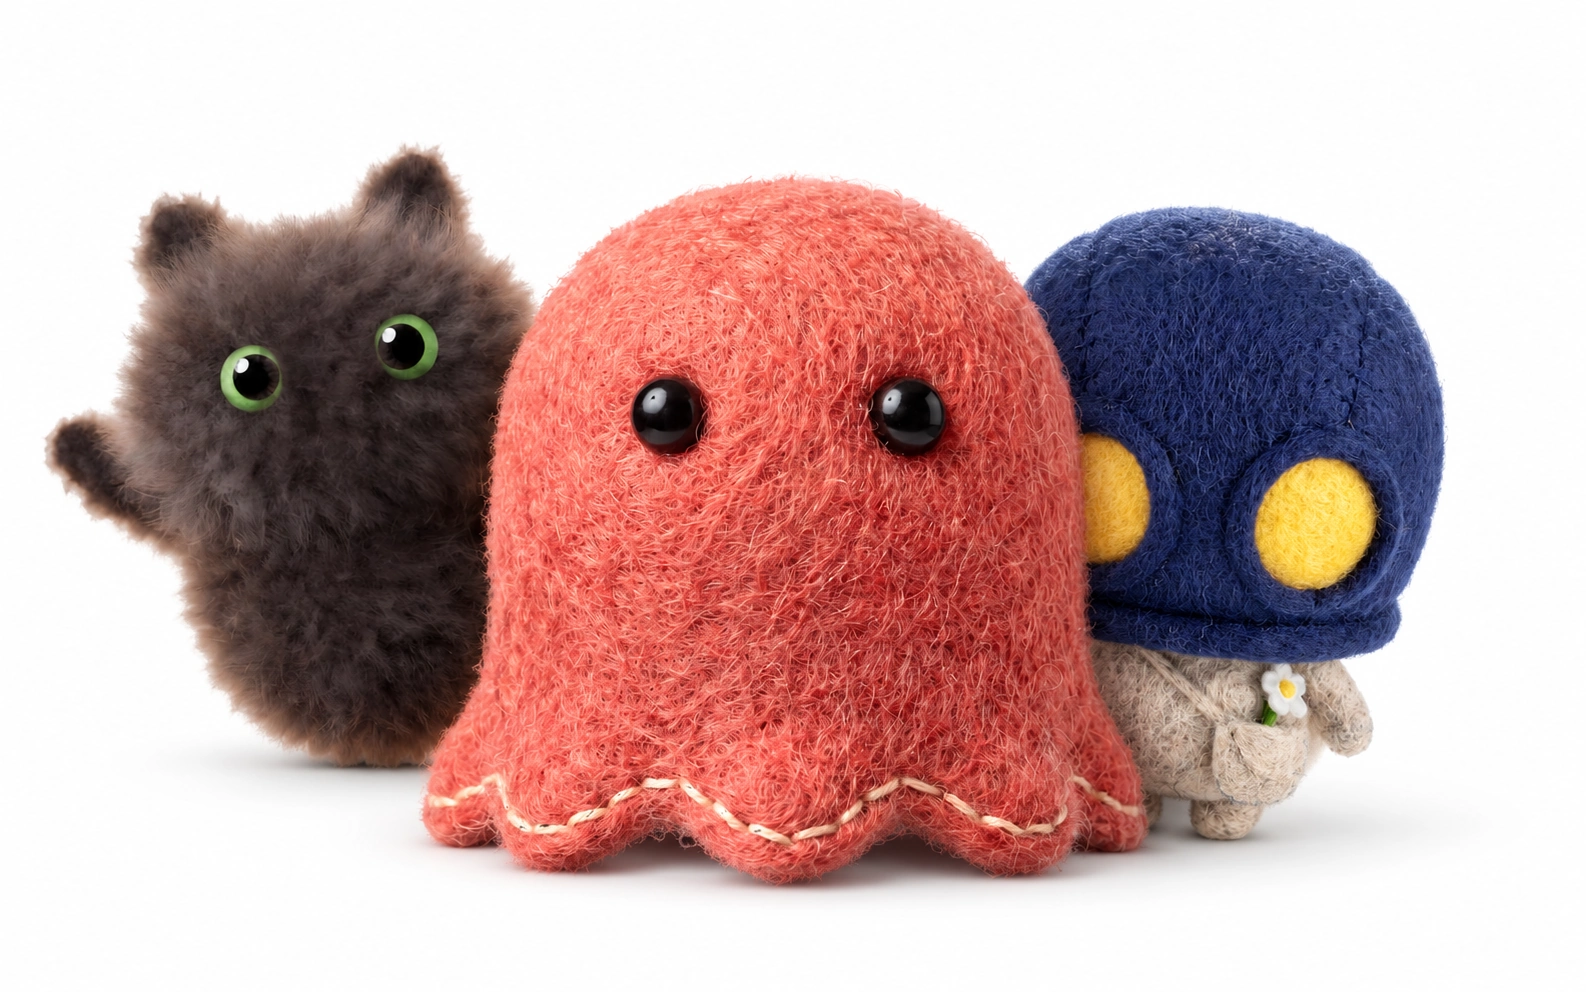
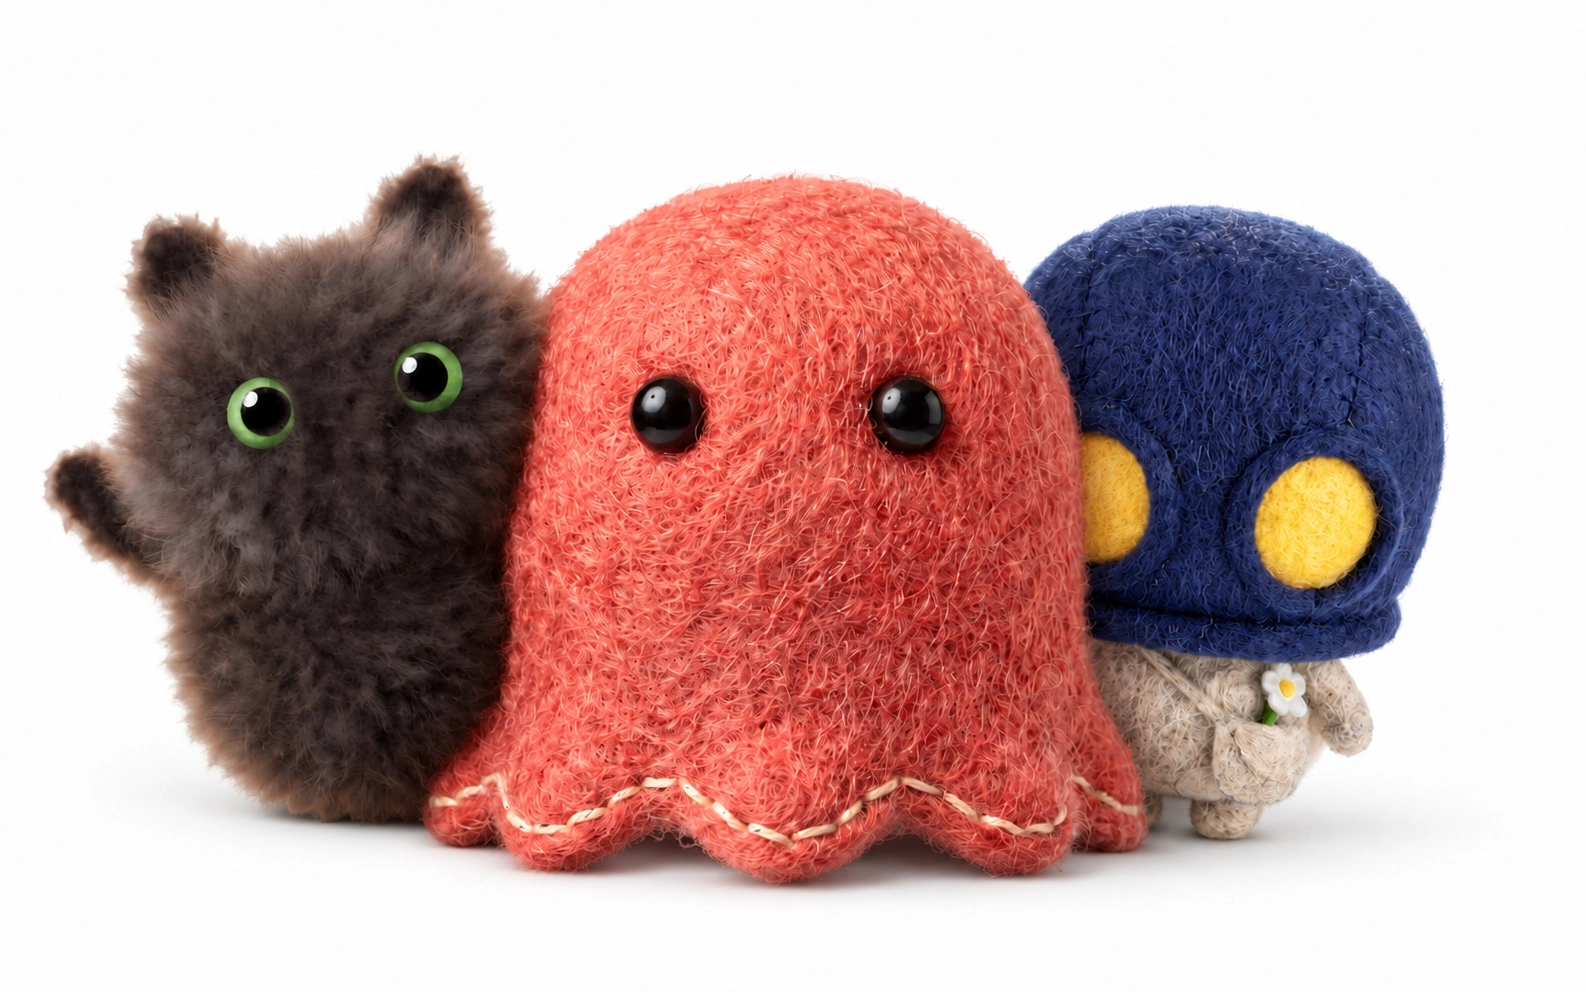
Update companion scene with closer Kkamong placement

diff --git a/index.html b/index.html
@@ -5,7 +5,7 @@
 <meta name="description" content="저마다의 삶을 온전히 누리는 미래를 만듭니다. AI가 넓힌 가능성을 배움과 일, 문화로 연결합니다.">
 <meta property="og:title" content="SYNK — 저마다의 삶을 온전히 누리는 미래를 만듭니다."><meta property="og:description" content="AI가 넓힌 가능성을 배움과 일, 문화로 연결합니다."><meta property="og:type" content="website"><meta property="og:url" content="https://synk.im/">
 <link rel="canonical" href="https://synk.im/"><title>SYNK — 저마다의 삶을 온전히 누리는 미래를 만듭니다.</title>
-<meta property="og:image" content="https://synk.im/assets/companions-scene.webp"><meta property="og:image:width" content="1586"><meta property="og:image:height" content="992"><meta property="og:image:alt" content="함께 모인 SYNK의 세 친구, 몽글·까몽·마린"><meta name="twitter:card" content="summary_large_image">
+<meta property="og:image" content="https://synk.im/assets/companions-scene.webp?v=20260914-together"><meta property="og:image:width" content="1586"><meta property="og:image:height" content="992"><meta property="og:image:alt" content="함께 모인 SYNK의 세 친구, 몽글·까몽·마린"><meta name="twitter:card" content="summary_large_image">
 <link rel="icon" type="image/svg+xml" href="/assets/synk-precision.svg?v=20260910-story"><link rel="preload" href="/assets/suit.woff2" as="font" type="font/woff2" crossorigin>
 <link rel="stylesheet" href="/assets/brand-tokens.css?v=20260914"><link rel="stylesheet" href="/assets/loom.css?v=20260914"><link rel="stylesheet" href="/style.css?v=2026-09-14-corporate-visions-b3c03641e2"><script type="module" src="/app.js?v=2026-09-14-corporate-visions-b3c03641e2"></script>
 <noscript><style>.menu-toggle{display:none!important}.header nav{display:flex!important}</style></noscript></head>
@@ -21,7 +21,7 @@
 <div class="hero-meta"><span class="eyebrow">SYNK — LEARNING, WORK & CULTURE</span><span class="edition">한 사람에서 시작되는 가능성</span></div>
 <div id="hero-introduction" class="introduction">
 <div class="hero-copy"><h1 id="hero-title" data-vision-headline="synk">저마다의 삶을 <span>온전히 누리는</span> 미래를 만듭니다.</h1><p data-vision-subtext="synk">AI가 넓힌 가능성을 배움과 일, 문화로 연결합니다.</p><div class="hero-actions"><a class="primary-link" href="#worlds">SYNK가 하는 일 <span aria-hidden="true">↘</span></a><a class="quiet-link" href="#work">직접 만나보기 <span aria-hidden="true">↗</span></a></div></div>
-<figure class="companions"><img class="companions-scene" data-synk-mascot="companions" src="/assets/companions-scene.webp?v=20260910-group" alt="함께 모인 SYNK의 세 친구. 가운데 몽글, 왼쪽 까몽, 오른쪽 마린." width="1586" height="992" fetchpriority="high"><figcaption><span class="eyebrow">A LITTLE CLOSER, TO YOUR WORLD.</span><span>몽글 · 까몽 · 마린</span></figcaption></figure>
+<figure class="companions"><img class="companions-scene" data-synk-mascot="companions" src="/assets/companions-scene.webp?v=20260914-together" alt="함께 모인 SYNK의 세 친구. 가운데 몽글, 왼쪽 까몽, 오른쪽 마린." width="1586" height="992" fetchpriority="high"><figcaption><span class="eyebrow">A LITTLE CLOSER, TO YOUR WORLD.</span><span>몽글 · 까몽 · 마린</span></figcaption></figure>
 </div>
 <nav class="world-directory" aria-label="사업 바로가기"><a href="#lab"><span class="directory-number" aria-hidden="true"></span><div><strong>배움과 경험</strong><span>SYNK LAB</span></div><span class="directory-arrow" aria-hidden="true">↘</span></a><a href="#shift"><span class="directory-number" aria-hidden="true"></span><div><strong>일과 기회</strong><span>SYNK SHIFT</span></div><span class="directory-arrow" aria-hidden="true">↘</span></a><a href="#pulse"><span class="directory-number" aria-hidden="true"></span><div><strong>음악과 이야기</strong><span>SYNK PULSE</span></div><span class="directory-arrow" aria-hidden="true">↘</span></a></nav>
 </section>

diff --git a/README.md b/README.md
@@ -2,9 +2,9 @@
 
 Production: https://synk.im/ — GitHub Pages, main branch root.
 
-Current corporate homepage source: SYNK-website commit 39e1cea063cd6762b22bed323707532429b5aac4 (2026-09-14). The corporate introduction, approved visions and philosophy, LAB/SHIFT/PULSE business scope, public experiences, and four enquiry routes are presented before the public-document guide. The current release has 67 reviewed answers and seven public documents. LAB/PULSE have no approved vision subtext. SHIFT includes organization services and individual study/employment pathways; public company-building content demonstrates methods and judgment.
+Current corporate homepage source: SYNK-website commit f5eaa9fc883af5ec2f3e8159dc6b0e066ac05277 (2026-09-14). The corporate introduction, approved visions and philosophy, LAB/SHIFT/PULSE business scope, public experiences, and four enquiry routes are presented before the public-document guide. The current release has 67 reviewed answers and seven public documents. LAB/PULSE have no approved vision subtext. SHIFT includes organization services and individual study/employment pathways; public company-building content demonstrates methods and judgment.
 
-Authoring source: the separate SYNK-website repository. Mirror only reviewed dist files and changed assets, including guide.css, the current brand tokens, and shared Loom CSS. Build syncs approved visions and assets; 49 code checks and actual desktop/mobile review were completed for this release. It preserves planner attribution, current registration preparation, and explicit service/partnership/outcome limits. Never restore the retired business number or address as current registration details. The private Sites review copy is a separate historical snapshot, not the production website.
+Authoring source: the separate SYNK-website repository. Mirror only reviewed dist files and changed assets, including guide.css, the current brand tokens, and shared Loom CSS. Build syncs approved visions and assets; 49 code checks and actual desktop/mobile review were completed for this release. It preserves planner attribution, current registration preparation, and explicit service/partnership/outcome limits. Never restore the retired business number or address as current registration details. The private Sites review copy is a separate historical snapshot, not the production website. The 2026-09-14 companion scene brings Kkamong forward beside the other two; its hero and sharing URLs use the current scene version.
 
 Privacy source: SYNK-appsscript docs/개인정보처리방침_초안_v1.md. The optional tools/privacy-policy-render.js renders only explicit public boundaries into source and published HTML. The current LAB Korean/English policy separates website questions from learning-service processing, includes actual providers and device/server deletion distinctions, and identifies the individual controller at hello@synk.im. Provider contracts, individual transfer notices and actual rights handling still need operational evidence; policy publication is not Meta verification.
 
